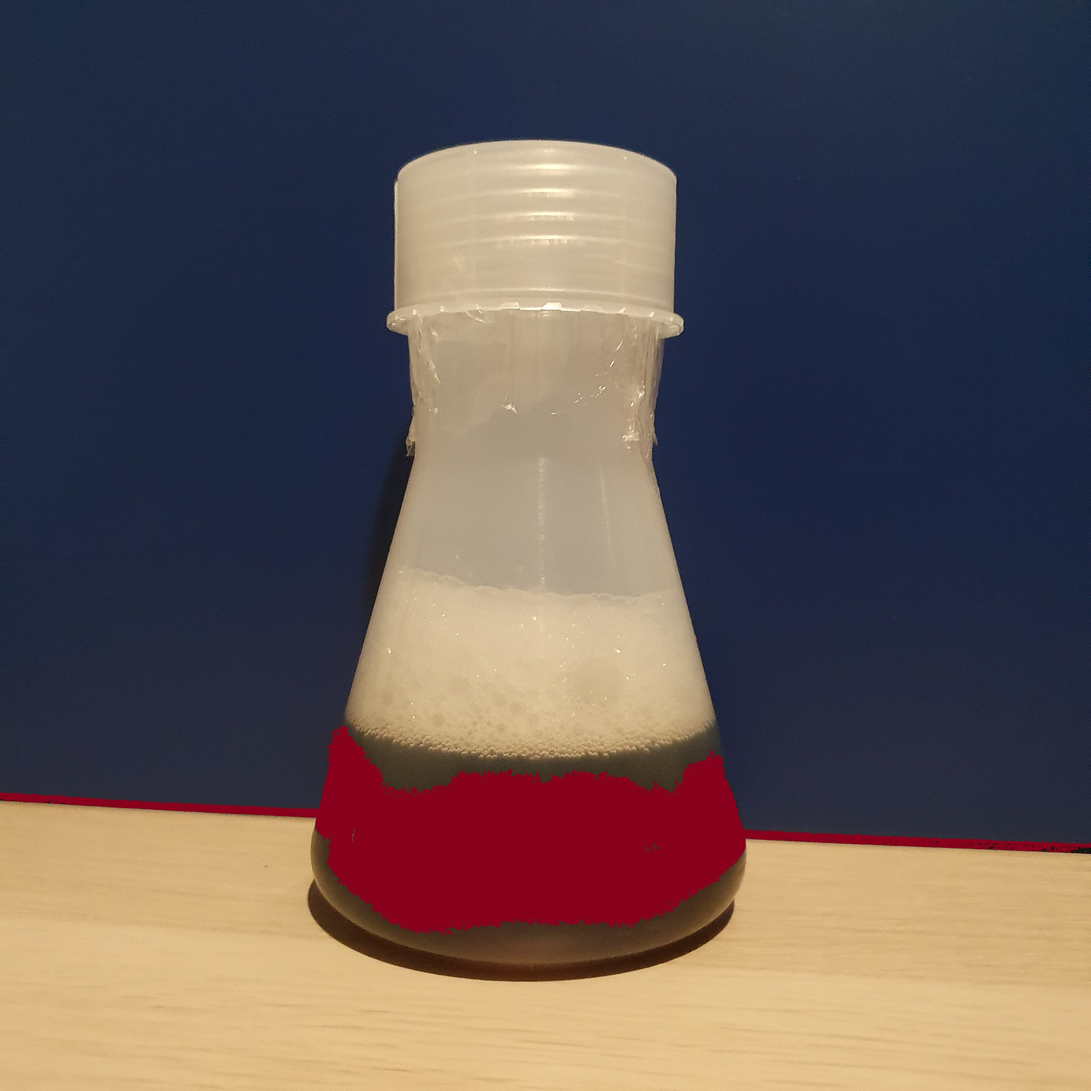
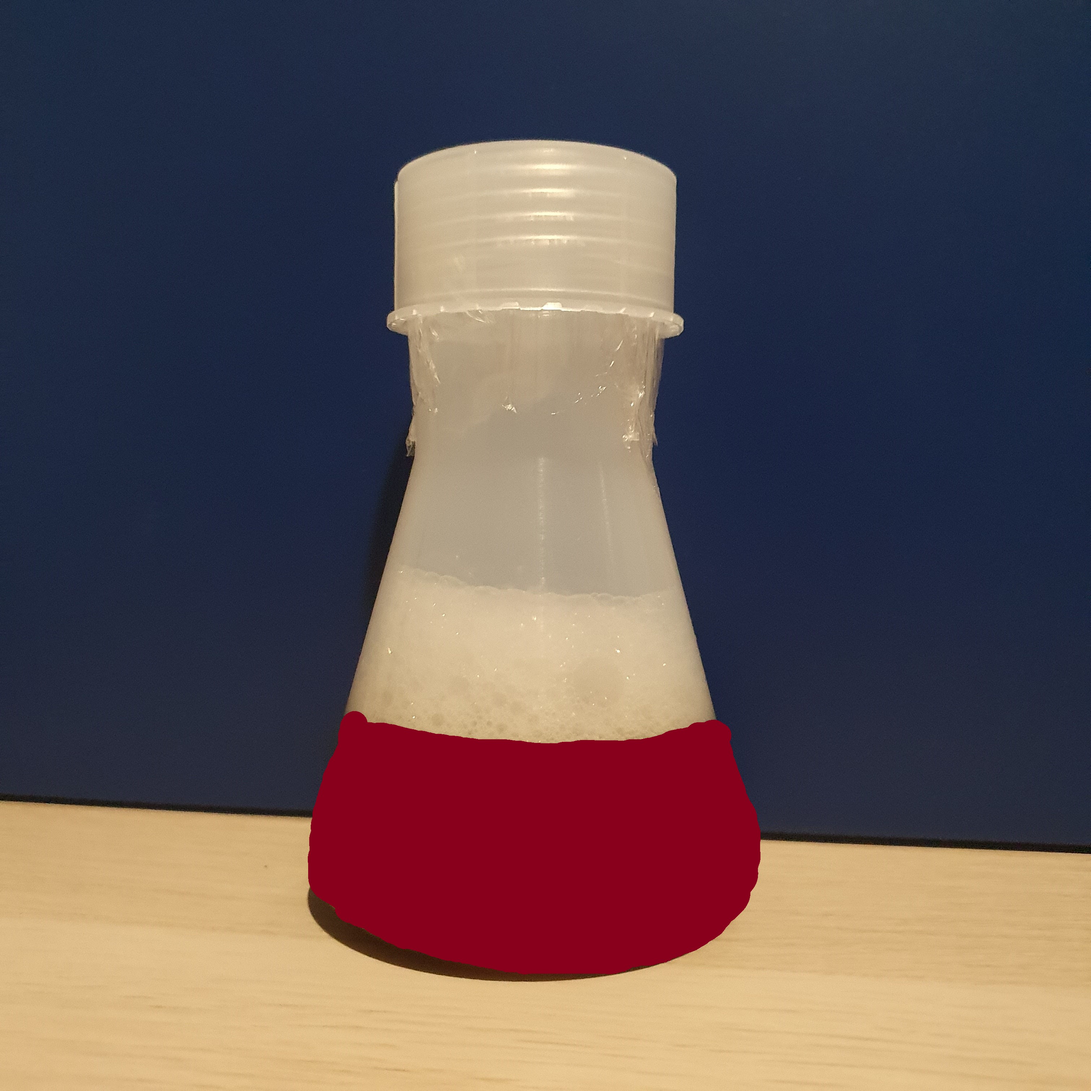
same colour picture

Changed region(s): [[0.0, 0.6528, 1.0, 0.9015]]

diff --git a/foam_detection/difference2.py b/foam_detection/difference2.py
@@ -1,0 +1,62 @@
+
+
+# import the necessary packages
+from skimage.metrics import structural_similarity as compare_ssim
+import imutils
+import cv2
+# construct the argument parse and parse the arguments
+
+def rescaleFrame(frame, scale):
+    """
+    Function to rescale an image based on a scale ratio
+    :param frame: image to rescale
+    :param scale: positive float representing scale
+    :returns: rescaled image
+    """
+    width = int(frame.shape[1] * scale)
+    height = int(frame.shape[0] * scale)
+    dimensions = (width, height)
+
+    return cv2.resize(frame, dimensions, interpolation=cv2.INTER_CUBIC)
+
+# load the two input images
+imageA = cv2.imread("foam_detection/images/background/bg1.jpg")
+imageB = cv2.imread("foam_detection/images/fg1.jpg")
+
+scaleA = 768/max(imageA.shape[0],imageA.shape[1])
+scaleB = 768/max(imageB.shape[0],imageB.shape[1])
+imageA = rescaleFrame(imageA, scaleA)
+imageB = rescaleFrame(imageB, scaleB)
+
+# convert the images to grayscale
+grayA = cv2.cvtColor(imageA, cv2.COLOR_BGR2GRAY)
+grayB = cv2.cvtColor(imageB, cv2.COLOR_BGR2GRAY)
+
+# compute the Structural Similarity Index (SSIM) between the two
+# images, ensuring that the difference image is returned
+(score, diff) = compare_ssim(grayA, grayB, full=True)
+diff = (diff * 255).astype("uint8")
+print("SSIM: {}".format(score))
+
+# threshold the difference image, followed by finding contours to
+# obtain the regions of the two input images that differ
+thresh = cv2.threshold(diff, 0, 255,
+	cv2.THRESH_BINARY_INV | cv2.THRESH_OTSU)[1]
+cnts = cv2.findContours(thresh.copy(), cv2.RETR_EXTERNAL,
+	cv2.CHAIN_APPROX_SIMPLE)
+cnts = imutils.grab_contours(cnts)
+
+# loop over the contours
+for c in cnts:
+	# compute the bounding box of the contour and then draw the
+	# bounding box on both input images to represent where the two
+	# images differ
+	(x, y, w, h) = cv2.boundingRect(c)
+	cv2.rectangle(imageA, (x, y), (x + w, y + h), (0, 0, 255), 2)
+	cv2.rectangle(imageB, (x, y), (x + w, y + h), (0, 0, 255), 2)
+# show the output images
+cv2.imshow("Original", imageA)
+cv2.imshow("Modified", imageB)
+cv2.imshow("Diff", diff)
+cv2.imshow("Thresh", thresh)
+cv2.waitKey(0)

diff --git a/foam_detection/colour_detection.py b/foam_detection/colour_detection.py
@@ -103,7 +103,7 @@ def findBestContour(canny, search_contour):
 
 def colour_detection(image=None):
 
-    image = cv2.imread("foam_detection/images/2_yellow.jpg")
+    image = cv2.imread("foam_detection/images/2.jpg")
     
     scale = 768/max(image.shape[0],image.shape[1])
     image = rescaleFrame(image, scale)
@@ -114,7 +114,8 @@ def colour_detection(image=None):
     # cv2.imshow("binary", binary)
 
     canny = getEdges(image, 3)
-    # cv2.imshow("canny", canny)
+    cv2.imshow("canny", canny)
+    cv2.waitKey(0)
 
     lines = cv2.HoughLinesP(canny,rho = 1,theta = 1*np.pi/180,threshold = 100,minLineLength = 100,maxLineGap = 50)
 
@@ -159,21 +160,34 @@ def colour_detection(image=None):
     cv2.fillPoly(mask, pts=[best_contour], color=(255,255,255))
     masked_image = cv2.bitwise_and(image, mask)
 
-    cv2.imshow("masked", masked_image)
-
     canny = getEdges(masked_image, 3)
     cv2.imshow("canny", canny)    
 
+    getting_liquid = True
     for i in range(h):
         if canny[y+h-(i+1)][canny.shape[1]//2] == 255 and i>50:
-            liquid_height = i
-            break
+            if getting_liquid:
+                liquid_height = i
+                getting_liquid = False
+            else:
+                foam_height = i
+                break
+    
 
     liquid_colour = masked_image[y+h-(liquid_height//2)][x+(w//2)]
     colour = np.zeros(image.shape, dtype = "uint8")
     for i in range(colour.shape[0]):
         for j in range(colour.shape[1]):
             colour[i][j] = liquid_colour
+    
+    cv2.line(masked_image, (x+(w//2), y+h-(liquid_height)), (x+(w//2),y+h), (0, 0, 255), 2) 
+    string = "height in pixels: " + str(liquid_height)
+
+    cv2.putText(masked_image,string, (x+(w//2)+3,y+h-(liquid_height//2)), cv2.FONT_HERSHEY_SIMPLEX, 0.5, (0,0,255), 1)
+
+
+    cv2.imshow("masked", masked_image)
+
     
     cv2.imshow("colour", colour)
     cv2.waitKey(0)

diff --git a/foam_detection/difference.py b/foam_detection/difference.py
@@ -1,0 +1,56 @@
+import cv2
+# Rescaling image
+def rescaleFrame(frame, scale):
+    """
+    Function to rescale an image based on a scale ratio
+    :param frame: image to rescale
+    :param scale: positive float representing scale
+    :returns: rescaled image
+    """
+    width = int(frame.shape[1] * scale)
+    height = int(frame.shape[0] * scale)
+    dimensions = (width, height)
+
+    return cv2.resize(frame, dimensions, interpolation=cv2.INTER_CUBIC)
+
+# Choose image
+original = cv2.imread("foam_detection/images/fg2.jpg")
+duplicate = cv2.imread("foam_detection/images/background/bg2.jpg")
+
+scale = 768/max(original.shape[0],original.shape[1])
+original = rescaleFrame(original, scale)
+duplicate = rescaleFrame(duplicate, scale)
+
+
+# Store the image shape into variable
+ori_shape = original.shape[:2]
+dup_shape = duplicate.shape[:2]
+
+# TEST 1: Based on shape of image
+if ori_shape == dup_shape:
+    print("Image size is same")
+else:
+    print("Image is different in size")
+
+# TEST 1: Based on shape of image
+if ori_shape == dup_shape:
+    print("Image size is same")
+
+    # Extract the difference of color element between two image
+    difference = cv2.subtract(original, duplicate)
+    b, g, r = cv2.split(difference)
+
+
+# TEST 1: Based on shape of image
+if ori_shape == dup_shape:
+    # ...
+
+    # TEST 2: Based on color of image
+    if cv2.countNonZero(b) == 0 and cv2.countNonZero(g) == 0 and cv2.countNonZero(r) == 0:
+        print("The color is equal")
+    else:
+        print('The color of image is different')
+        cv2.imshow('Difference', difference)
+
+cv2.waitKey(0)
+cv2.destroyAllWindows(0)
